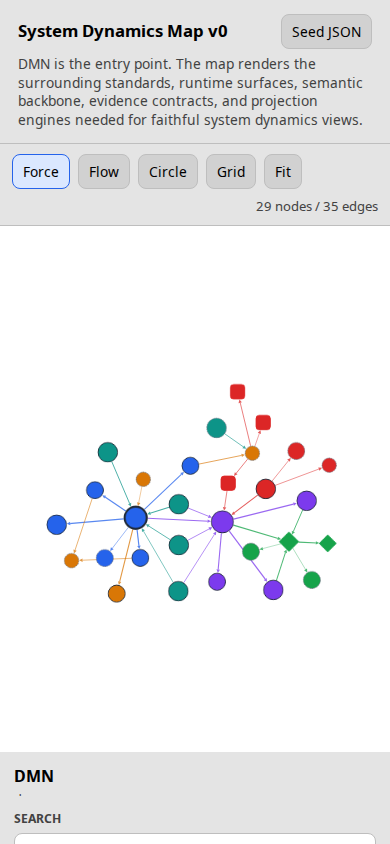
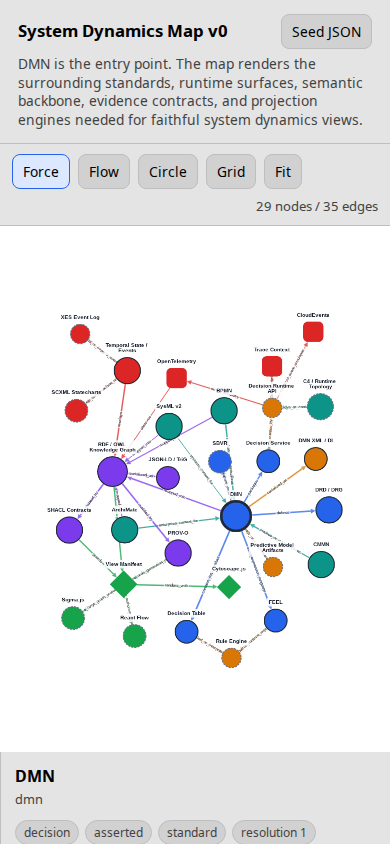
Harden system map artifact checks

diff --git a/docs/architecture/system-dynamics-map-viewer.html b/docs/architecture/system-dynamics-map-viewer.html
@@ -35,7 +35,6 @@
     }
 
     body {
-      container-type: inline-size;
       display: grid;
       grid-template-rows: auto 1fr;
       min-height: 100vh;
@@ -71,9 +70,11 @@
     }
 
     .app {
-      display: grid;
-      grid-template-columns: minmax(280px, 360px) minmax(0, 1fr) minmax(300px, 390px);
+      align-items: stretch;
+      display: flex;
+      flex-wrap: wrap;
       min-height: 0;
+      overflow: auto;
     }
 
     aside,
@@ -90,15 +91,22 @@
 
     .controls {
       border-right: 1px solid var(--line);
+      flex: 1 1 280px;
+      order: 3;
     }
 
     .details {
       border-left: 1px solid var(--line);
+      flex: 1 1 320px;
+      order: 2;
     }
 
     .workspace {
       display: grid;
+      flex: 999 1 520px;
       grid-template-rows: auto 1fr;
+      min-height: 72vh;
+      order: 1;
       overflow: hidden;
     }
 
@@ -303,53 +311,6 @@
       color: var(--danger);
       margin: 16px;
       padding: 12px;
-    }
-
-    @container (max-width: 1100px) {
-      .app {
-        grid-template-columns: 310px minmax(0, 1fr);
-      }
-
-      .details {
-        border-left: 0;
-        border-top: 1px solid var(--line);
-        grid-column: 1 / -1;
-        max-height: 42vh;
-      }
-    }
-
-    @container (max-width: 760px) {
-      body {
-        min-height: 100dvh;
-      }
-
-      .app {
-        display: flex;
-        flex-direction: column;
-        overflow: auto;
-      }
-
-      .controls,
-      .details {
-        border: 0;
-        max-height: none;
-      }
-
-      .workspace {
-        order: 1;
-      }
-
-      .details {
-        order: 2;
-      }
-
-      .controls {
-        order: 3;
-      }
-
-      .workspace {
-        min-height: 72vh;
-      }
     }
   </style>
 </head>

diff --git a/tests/test_system_dynamics_map_artifacts.py b/tests/test_system_dynamics_map_artifacts.py
@@ -1,0 +1,64 @@
+import json
+import re
+from pathlib import Path
+
+REPO_ROOT = Path(__file__).resolve().parents[1]
+ARCHITECTURE_DIR = REPO_ROOT / "docs" / "architecture"
+SEED_PATH = ARCHITECTURE_DIR / "system-dynamics-map.seed.json"
+VIEWER_PATH = ARCHITECTURE_DIR / "system-dynamics-map-viewer.html"
+
+
+def _load_seed() -> dict:
+    return json.loads(SEED_PATH.read_text(encoding="utf-8"))
+
+
+def _load_viewer() -> tuple[str, dict]:
+    html = VIEWER_PATH.read_text(encoding="utf-8")
+    match = re.search(
+        r'<script type="application/json" id="seed-data">\s*(.*?)\s*</script>',
+        html,
+        re.S,
+    )
+    assert match, "viewer must include an embedded JSON seed fallback"
+    return html, json.loads(match.group(1))
+
+
+def test_viewer_embedded_seed_matches_canonical_seed():
+    _, embedded = _load_viewer()
+    assert embedded == _load_seed()
+
+
+def test_system_dynamics_seed_graph_is_referentially_valid():
+    for name, data in (("seed", _load_seed()), ("embedded", _load_viewer()[1])):
+        node_ids = [node["id"] for node in data["nodes"]]
+        edge_ids = [edge["id"] for edge in data["edges"]]
+        assert len(node_ids) == len(set(node_ids)), f"{name}: duplicate node IDs"
+        assert len(edge_ids) == len(set(edge_ids)), f"{name}: duplicate edge IDs"
+
+        layers = {layer["id"] for layer in data["layers"]}
+        statuses = set(data["status_kinds"])
+        node_set = set(node_ids)
+
+        for node in data["nodes"]:
+            assert node["layer"] in layers, f"{name}: invalid node layer {node['id']}"
+            assert node["status"] in statuses, f"{name}: invalid node status {node['id']}"
+            assert node.get("docs"), f"{name}: node missing docs {node['id']}"
+
+        for edge in data["edges"]:
+            assert edge["source"] in node_set, f"{name}: missing edge source {edge['id']}"
+            assert edge["target"] in node_set, f"{name}: missing edge target {edge['id']}"
+            assert edge["layer"] in layers, f"{name}: invalid edge layer {edge['id']}"
+            assert edge["status"] in statuses, f"{name}: invalid edge status {edge['id']}"
+
+
+def test_viewer_layout_uses_intrinsic_wrapping_without_conditional_at_rules():
+    html, _ = _load_viewer()
+    assert "flex-wrap: wrap" in html
+    assert "@container" not in html
+    assert "@media" not in html
+
+
+def test_system_dynamics_artifacts_do_not_use_hardcoded_hex_colors():
+    hex_color = re.compile(r"#[0-9A-Fa-f]{3,8}\b")
+    for path in (SEED_PATH, VIEWER_PATH, ARCHITECTURE_DIR / "system-dynamics-map-v0.md"):
+        assert not hex_color.search(path.read_text(encoding="utf-8")), path

diff --git a/docs/architecture/system-dynamics-map-v0.md b/docs/architecture/system-dynamics-map-v0.md
@@ -173,6 +173,10 @@ PR-visible visual witnesses:
 Run these from `~/projects/hapax-council` after changing the seed graph or viewer:
 
 ```bash
+pytest tests/test_system_dynamics_map_artifacts.py
+```
+
+```bash
 python3 -m json.tool docs/architecture/system-dynamics-map.seed.json >/tmp/system-dynamics-map.seed.pretty.json
 ```
 
@@ -244,12 +248,17 @@ rg -n '#[0-9A-Fa-f]{3,8}\b' \
   docs/architecture/system-dynamics-map-viewer.html
 ```
 
-The hardcoded-hex scan should return no matches. Confirm responsive CSS container
-queries are present and no accidental path replacement entered the viewer:
+The hardcoded-hex scan should return no matches. The viewer uses intrinsic flex
+wrapping for narrow screens; it should not contain conditional CSS at-rules:
 
 ```bash
-rg -n '@container \(max-width: (1100|760)px\)' docs/architecture/system-dynamics-map-viewer.html
-! rg -n '@agents|phone_media|hapax_daimonion' docs/architecture/system-dynamics-map-viewer.html
+python3 - <<'PY'
+from pathlib import Path
+
+text = Path("docs/architecture/system-dynamics-map-viewer.html").read_text()
+for token in ("@" + "container", "@" + "media"):
+    assert token not in text, f"unexpected conditional CSS at-rule: {token}"
+PY
 ```
 
 ```bash
@@ -273,7 +282,8 @@ npx playwright screenshot --browser chromium --viewport-size 390,844 \
 
 ## Source Notes
 
-Primary standards and docs used for the v0 map:
+Primary standards and docs used for the v0 map. Date-sensitive release notes
+below were rechecked against the linked official pages on 2026-06-18.
 
 - OMG DMN 1.5 formal, August 2024: https://www.omg.org/spec/DMN/1.5/About-DMN
 - OMG DMN 1.6 beta: https://www.omg.org/spec/DMN/1.6/Beta1/About-DMN